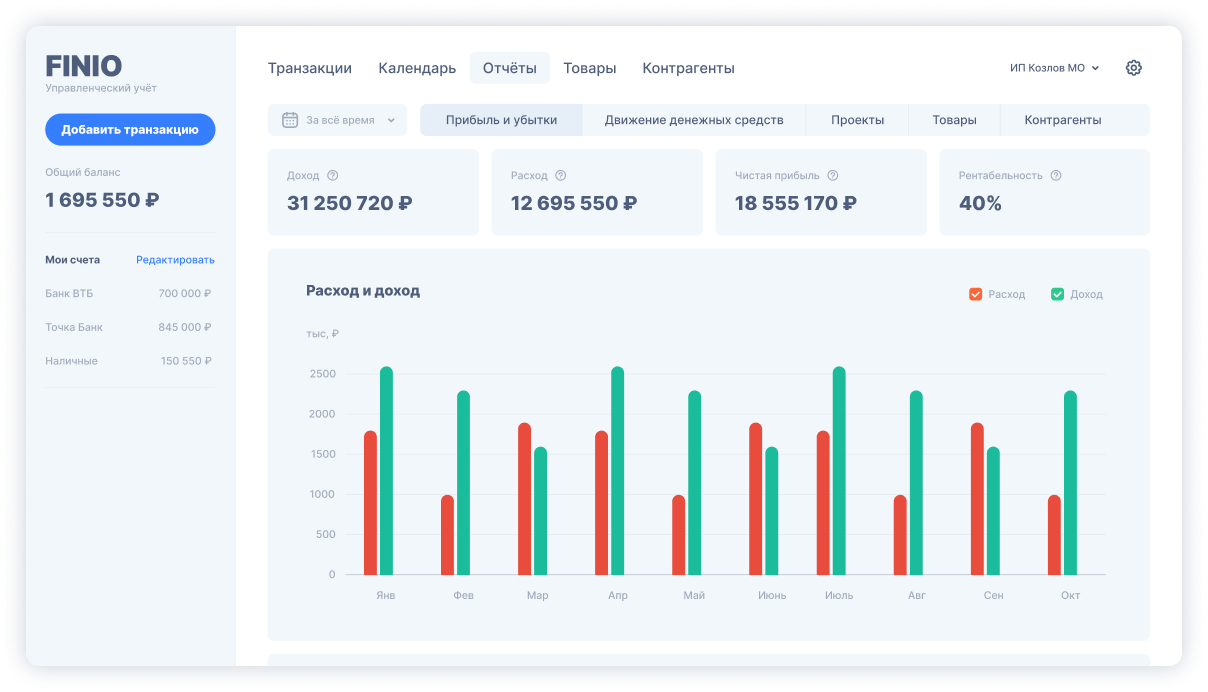
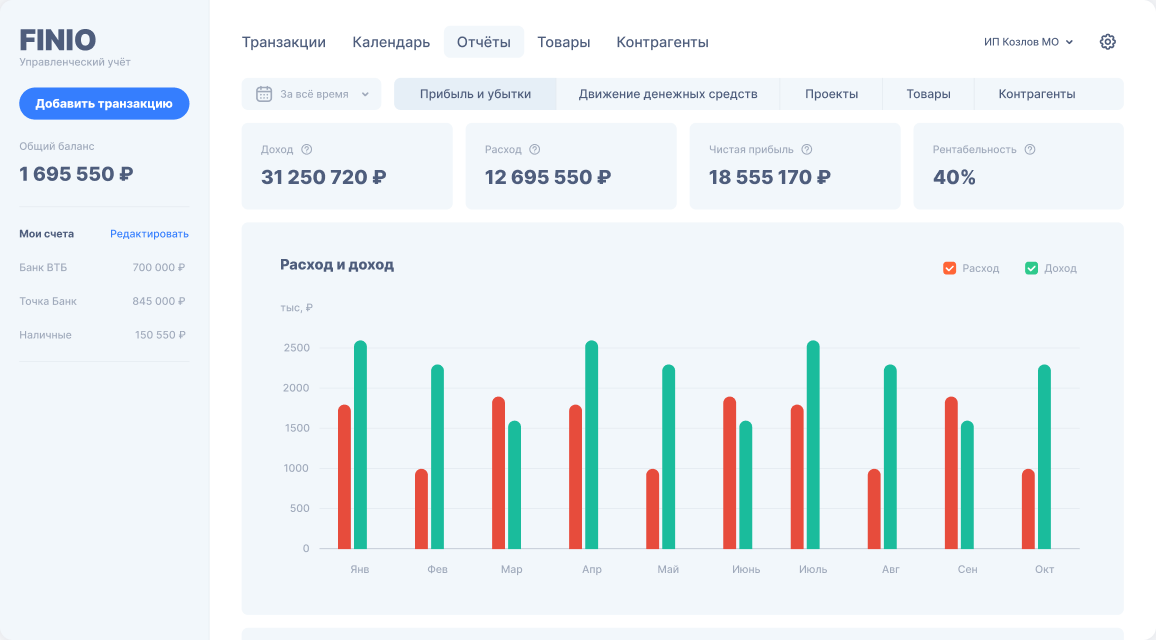
исправления

diff --git a/3-finio/styles/page.css b/3-finio/styles/page.css
@@ -49,6 +49,7 @@
 p {
   margin: 0;
 }
+
 .hero__footer_block {
   display: flex;
   gap: 16px;
@@ -142,7 +143,7 @@ p {
   justify-content: space-between;
   flex-direction: column;
   gap: 30px;
-  padding: 48px 40px;
+
   border-radius: var(--border-8);
   fill: var(--color-link-hover);
   box-shadow: 0 0 32px 0 rgba(78, 93, 124, 0.16);
@@ -178,7 +179,7 @@ p {
 
 .tariffs__wrapper {
   display: grid;
-  grid-template-columns: repeat(3, 369px);
+  grid-template-columns: repeat(auto-fit, minmax(369px, 1fr));
   gap: 24px;
   margin-bottom: 80px;
 }
@@ -213,7 +214,7 @@ p {
 
 .account {
   text-align: center;
-  padding-top: 120px;
+  /* padding-top: 120px; */
   margin-bottom: 40px;
 }
 
@@ -237,47 +238,58 @@ p {
 }
 
 .account__image {
-  /* display: flex; */
   margin: 0 auto 64px;
   max-width: var(--layout-width);
-  align-items: center;
-  justify-content: center;
+
   position: relative;
 }
 
-.account__image_before {
-  max-width: 100%;
+.account__image::after {
+  content: "";
+  position: absolute;
+  top: 0;
+  left: 50%;
+  transform: translateX(-50%);
+  background: var(--color-blue);
+  width: 2px;
+  height: 100%;
+  z-index: 3;
 }
 
-.image_sliced {
-  width: 100%;
+.account__image::before {
+  content: url("..//images/account-images/svg-devider.svg");
+  cursor: pointer;
+  position: absolute;
+  left: 50%;
+  top: 50%;
+  transform: translate(-50%, -50%);
+  z-index: 4;
+  width: 104px;
+  height: 104px;
 }
 
-.image_sliced_1 {
+.account-image__image {
   width: 100%;
+  display: block;
+}
+
+.account-image__image_over {
+  display: block;
+
+  width: 200%;
+}
+
+.account-image__before {
+  z-index: 1;
+}
+
+.account-image__after {
   position: absolute;
   top: 0;
   left: 0;
-}
-
-.account__image_after {
-  max-width: 50%;
-}
-
-.image_sliced_after::after {
-  content: "";
-  display: block;
-  width: 100%;
-  height: 1px;
-  background: red;
-}
-
-.svg {
-  position: absolute;
-  top: 50%;
-  left: 50%;
-  z-index: 1;
-  transform: translate(-50%, -50%);
+  z-index: 2;
+  width: 50%;
+  overflow: hidden;
 }
 
 .account__comparison {
@@ -309,7 +321,7 @@ p {
 .safety__point_item {
   display: flex;
   flex-direction: column;
-  /* gap: 20px; */
+
   flex: 1;
 }
 
@@ -398,19 +410,23 @@ p {
 
 .feedback__indicator {
   position: absolute;
-  top: 99px;
+  top: 50%;
+  transform: translateY(-50%);
+}
+
+.indicator__left {
   left: 0;
 }
 
-.feedback__indicator_transform img {
-  position: absolute;
-  top: 213px;
-  left: 1054px;
+.indicator__right {
+  right: 0;
   transform: rotate(180deg);
+  top: 43%;
 }
 
-.feedback__indicator_transform img:hover,
-.feedback__indicator img:hover {
+.feedback__indicator:hover {
+  opacity: 1;
+  cursor: pointer;
   -webkit-filter: brightness(200%);
 }
 
@@ -497,9 +513,7 @@ p {
   .account__p {
     text-align: left;
   }
-  .account {
-    padding-top: 64px;
-  }
+
   .account__comparison {
     padding-bottom: 64px;
   }

diff --git a/3-finio/index.html b/3-finio/index.html
@@ -176,16 +176,9 @@
           <div class="card_img">
             <img
               class="card_img-cover"
-              src="../3-finio/images/grapf-images/expenses.png"
+              src="..//3-finio/images/grapf-images/expences.png"
               alt="таблица с расходами"
             />
-            <div class="card_over">
-              <img
-                class="card_img-over"
-                src="../3-finio/images/grapf-images/amounts.png"
-                alt="суммы расходов"
-              />
-            </div>
           </div>
           <div class="card_block">
             <h2 class="black-text-40-600">Сокращайте лишние<br />расходы</h2>
@@ -214,21 +207,18 @@
         </div>
 
         <div class="account__image">
-          <div class="svg">
-            <img src="..//3-finio/images/account-images/svg-devider.svg" />
-          </div>
-          <div class="image_sliced">
+          <div class="account image__before">
             <img
-              class="account__image_before"
-              src="../3-finio/images/account-images/report.png"
+              class="account-image__image"
+              src="..//3-finio/images/account-images/report.png"
               alt="отчет"
             />
           </div>
 
-          <div class="image_sliced_1">
+          <div class="account-image__after">
             <img
-              class="account__image_after"
-              src="../3-finio/images/account-images/account.png"
+              class="account-image__image_over"
+              src="..//3-finio/images/account-images/account.png"
               alt="бухучет"
             />
           </div>
@@ -540,7 +530,7 @@
               <p class="white-text-17-700">Дана Валеева</p>
               <p class="white-text-17-500">Продавец Wildberries</p>
             </div>
-            <div class="feedback__indicator">
+            <div class="feedback__indicator indicator__left">
               <img
                 class="feedback__indicator"
                 src="..//3-finio/images/feedback-images/indicator.svg"
@@ -554,7 +544,7 @@
               alt="фото"
             />
           </div>
-          <div class="feedback__indicator_transform">
+          <div class="feedback__indicator indicator__right">
             <img
               class="feedback__indicator_transform"
               src="..//3-finio/images/feedback-images/indicator.svg"

diff --git a/3-finio/styles/footer.css b/3-finio/styles/footer.css
@@ -9,8 +9,8 @@
 }
 
 .footer__menu {
-  display: flex;
-  justify-content: space-between;
+  display: grid;
+  grid-template-columns: repeat(auto-fit, minmax(348px, 1fr));
   margin-bottom: 40px;
   position: relative;
 }

diff --git a/3-finio/styles/global.css b/3-finio/styles/global.css
@@ -39,6 +39,7 @@ body {
   font-family: "Inter", sans-serif;
   overflow-x: hidden;
   font-weight: 500;
+  min-width: 376px;
 
   /* background-color: var(--color-blue); */
 }
